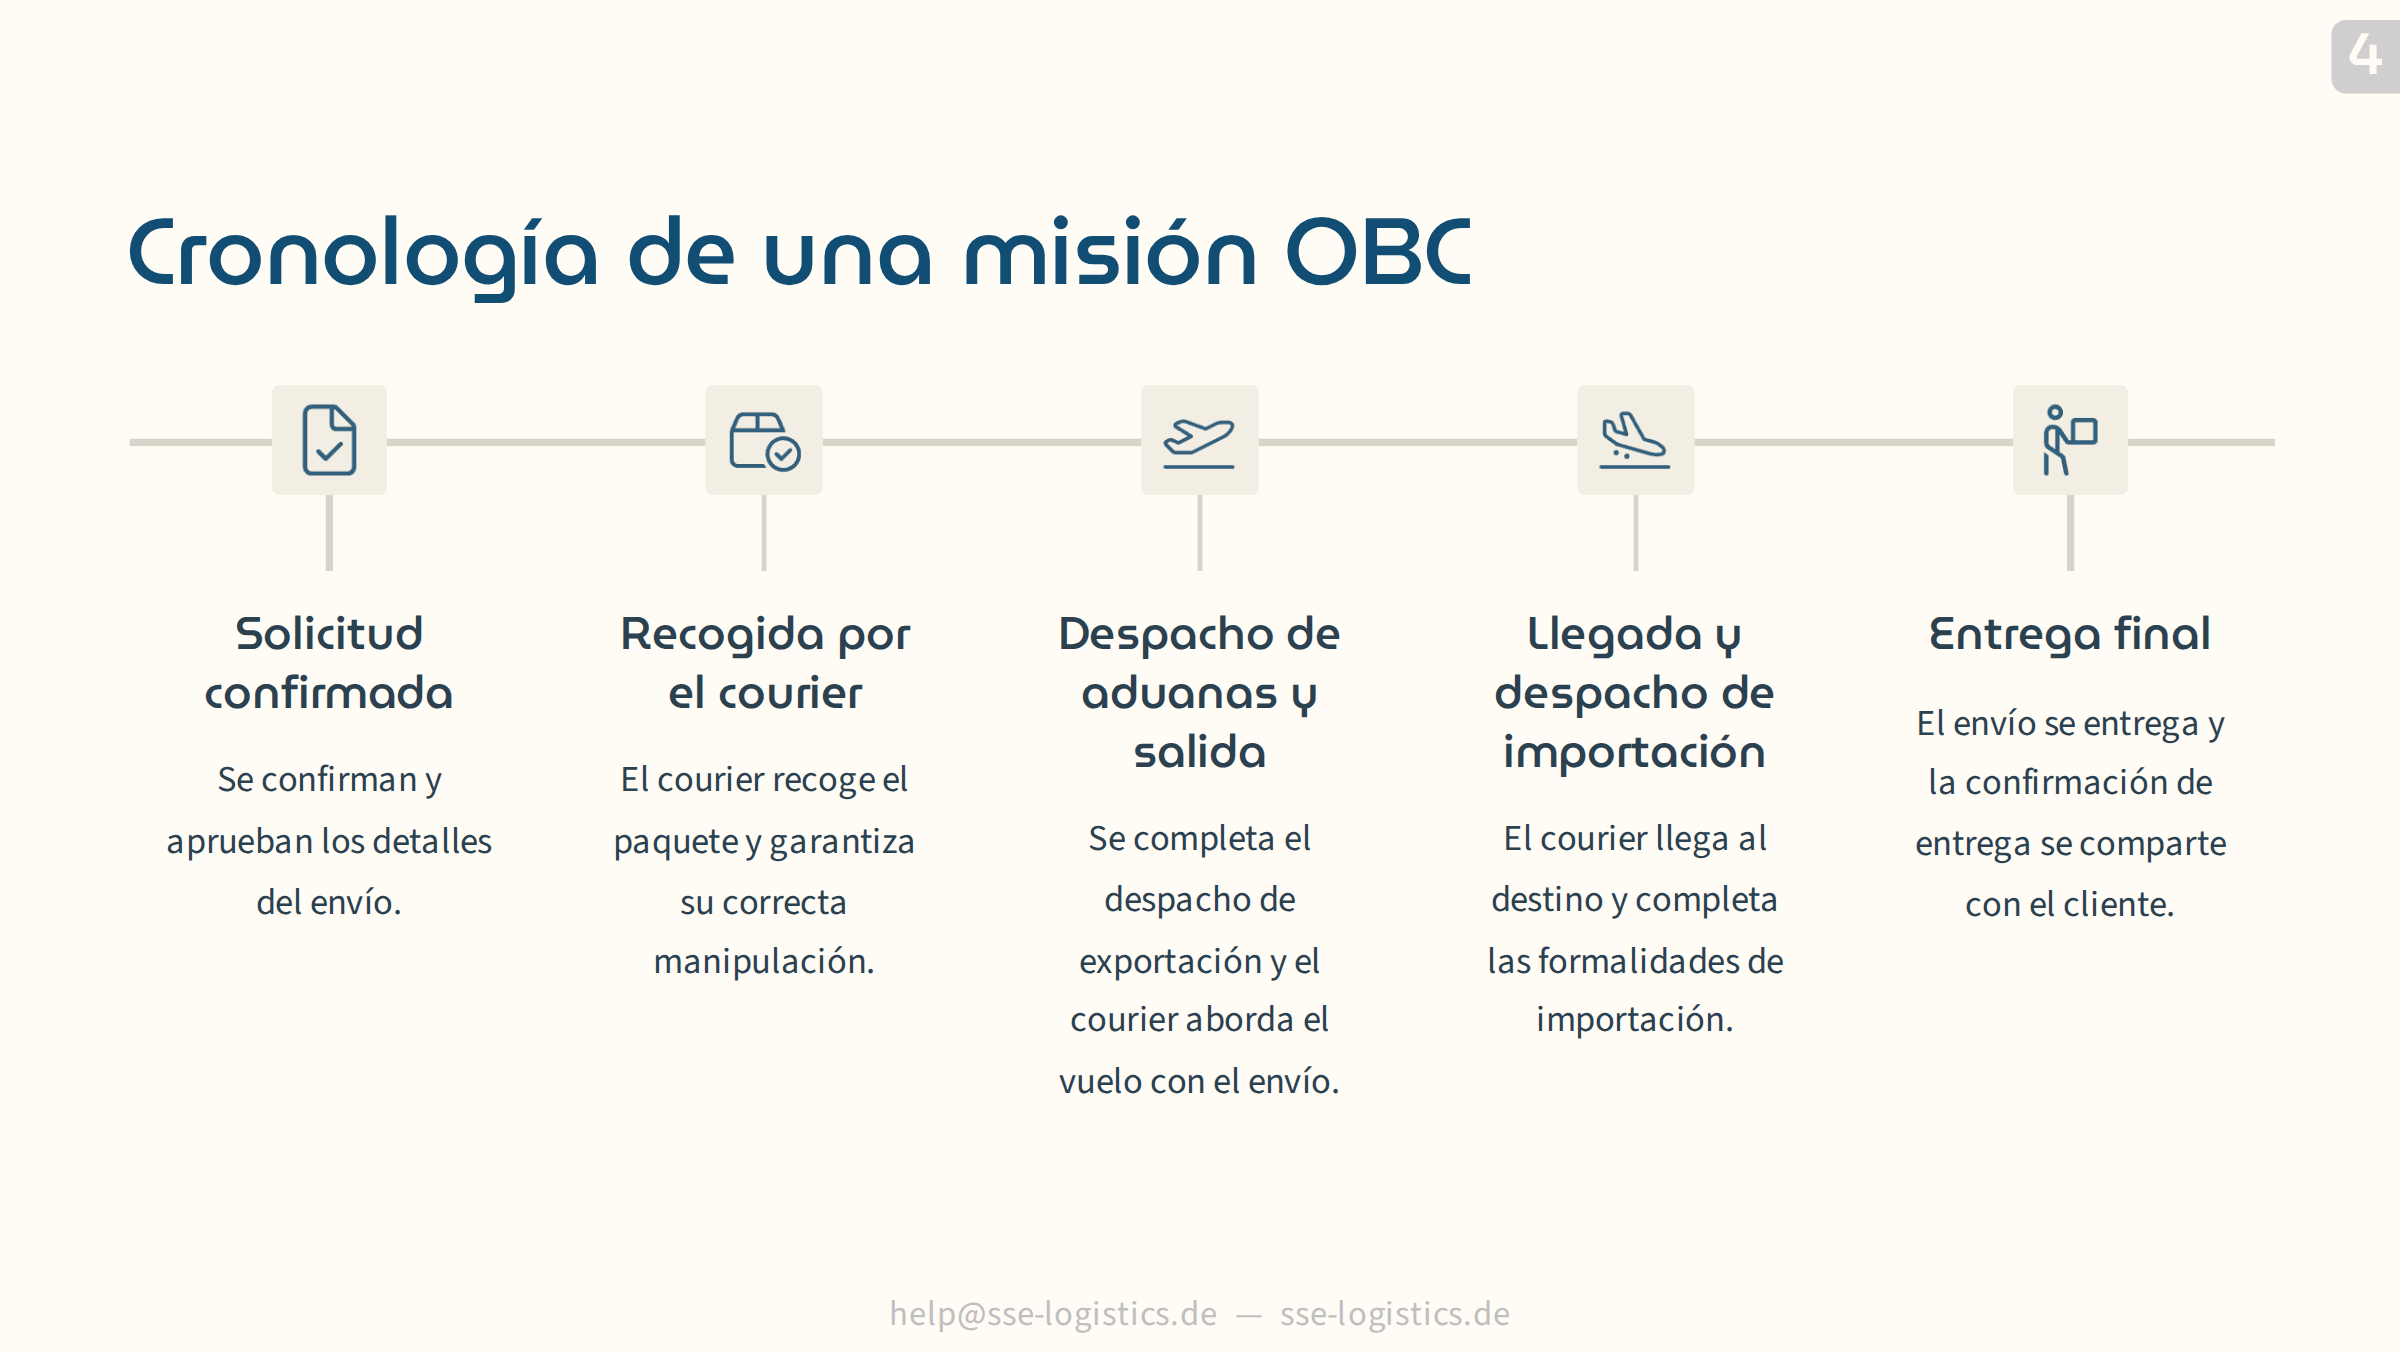
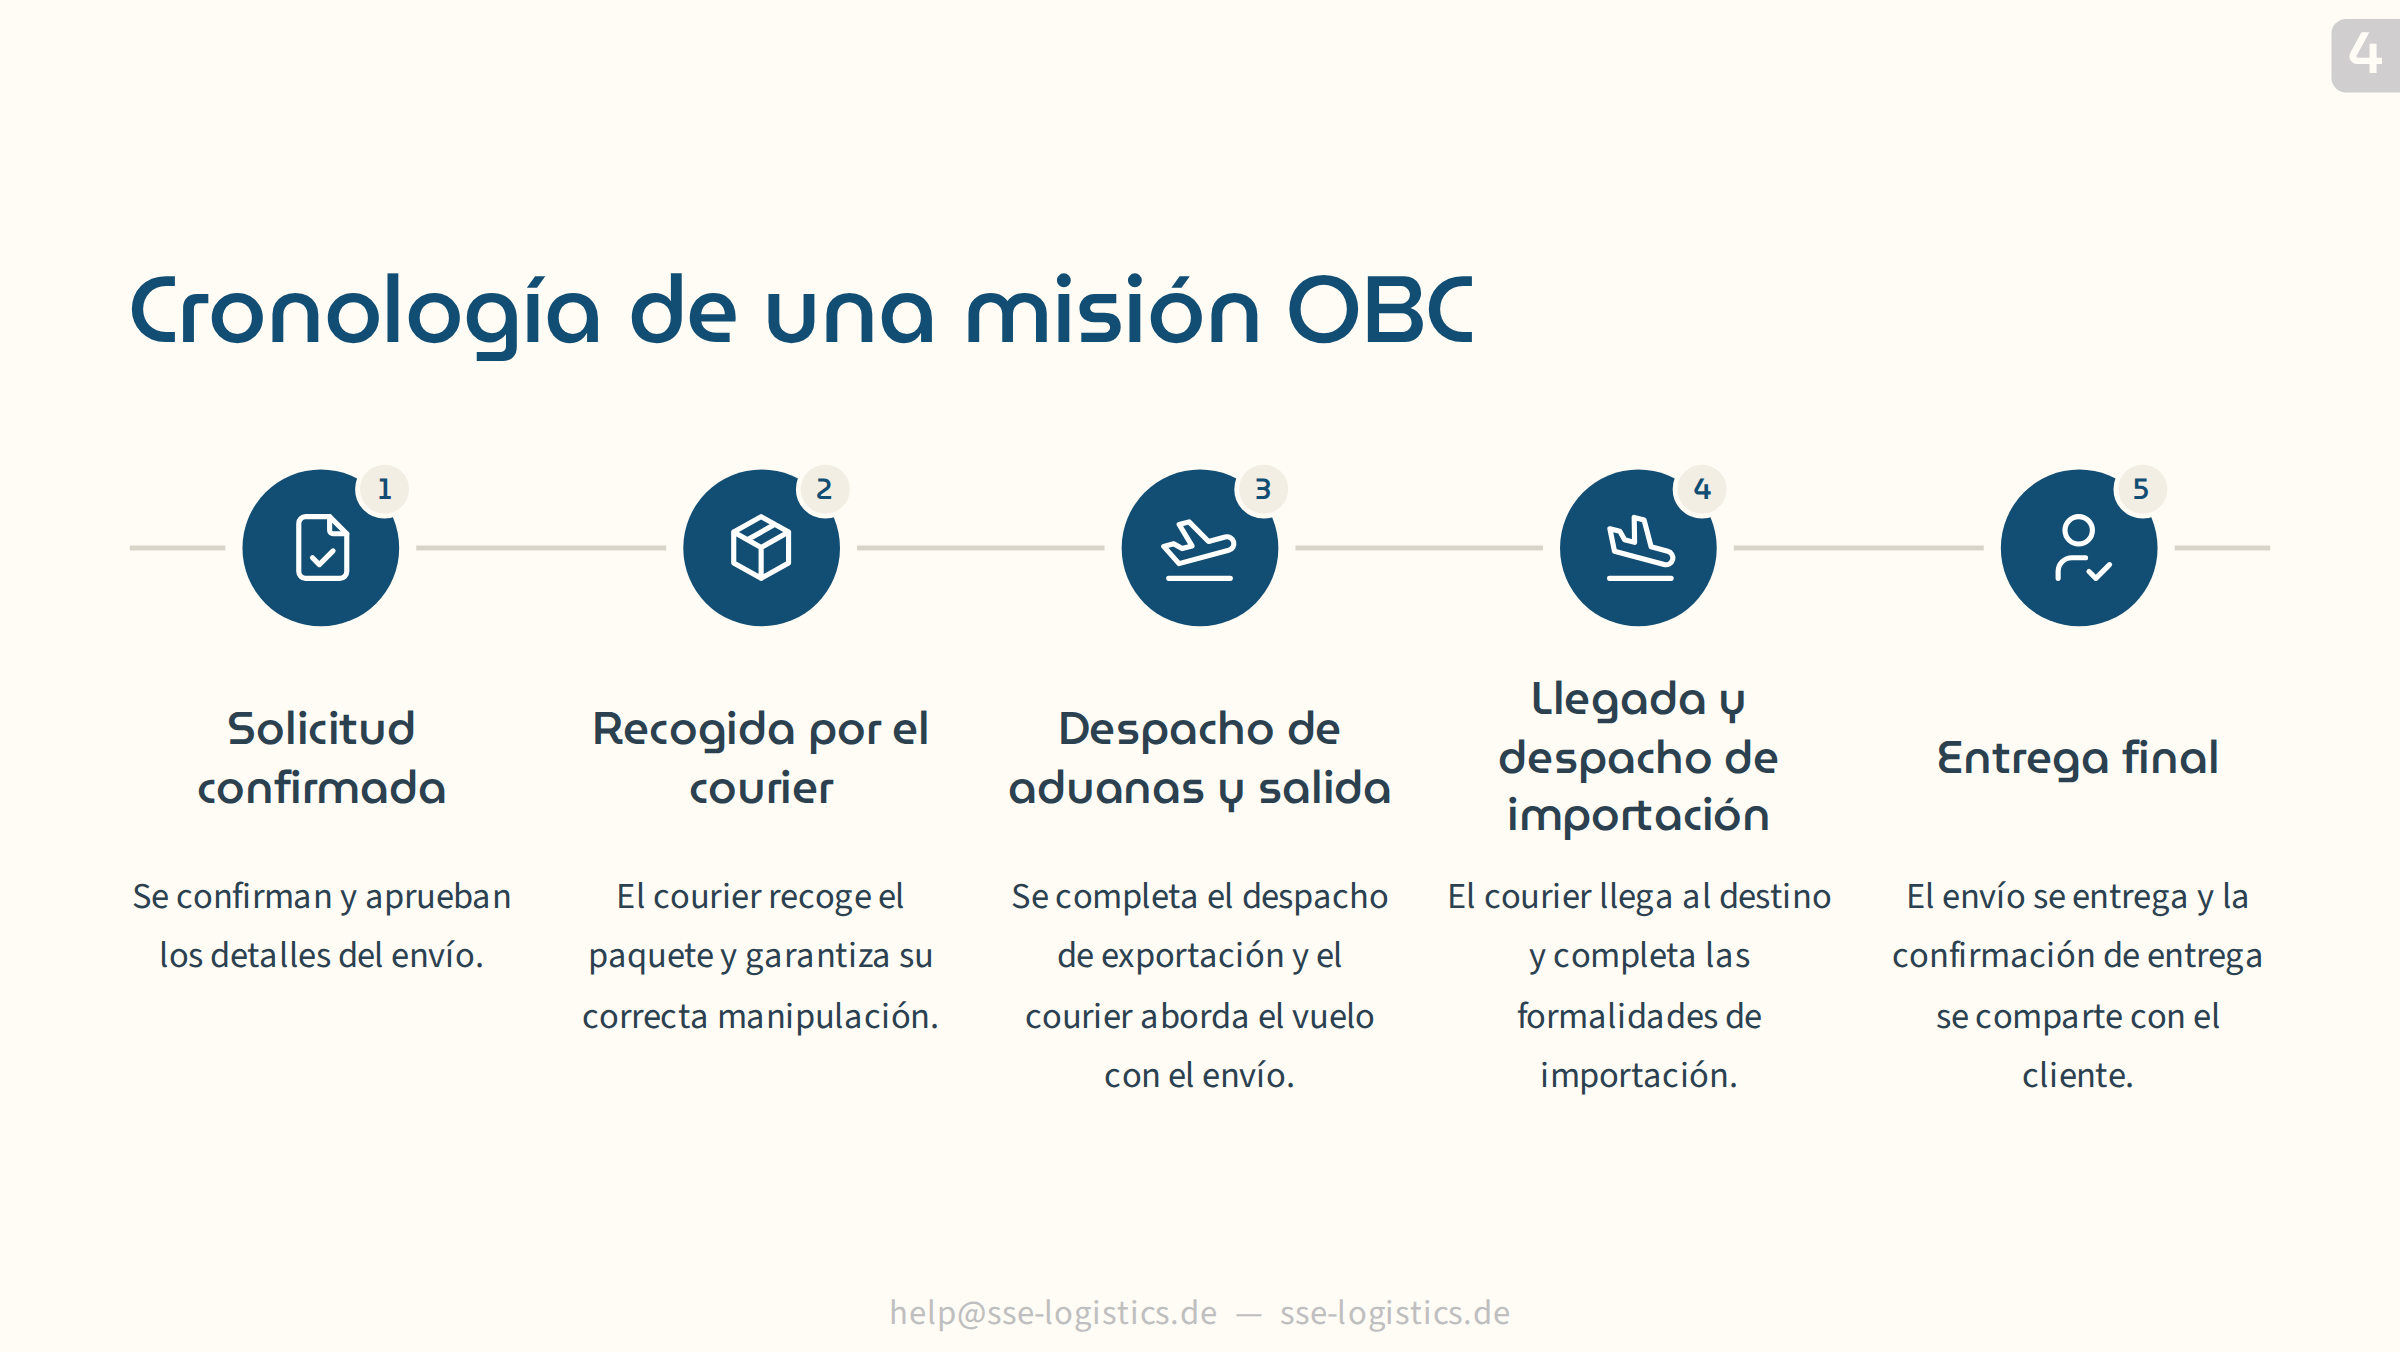
fix others

diff --git a/2025-02-alla-presentation/components/Timeline.vue b/2025-02-alla-presentation/components/Timeline.vue
@@ -1,6 +1,6 @@
 <script setup lang="ts">
-// Horizontal process timeline: a grey line through square icon tiles, with a short drop line to each step's text.
-// Geometry follows the pptx. `i` staggers the entrance.
+// Horizontal process timeline: a line through round brand nodes (icon in the slot, step number in a badge),
+// title and text centred under each node.
 defineProps<{ steps: { title: string; text: string }[] }>()
 </script>
 
@@ -8,28 +8,30 @@ defineProps<{ steps: { title: string; text: string }[] }>()
   <div class="tl">
     <div class="track" />
     <div v-for="(s, i) in steps" :key="i" class="step">
-      <div class="node a-pop" :style="{ '--d': `${250 + i * 140}ms` }"><slot :name="`icon-${i}`" /></div>
-      <div class="drop" />
-      <!-- words never break inside (e.g. at the hyphen of "Pick-Up") -->
-      <h3 class="a-rise" :style="{ '--d': `${330 + i * 140}ms` }"><template v-for="(w, j) in s.title.split(' ')" :key="j">{{ j ? ' ' : '' }}<span class="w">{{ w }}</span></template></h3>
-      <p class="a-rise" :style="{ '--d': `${400 + i * 140}ms` }">{{ s.text }}</p>
+      <div class="node"><slot :name="`icon-${i}`" /><span class="num">{{ i + 1 }}</span></div>
+      <h3>{{ s.title }}</h3>
+      <p>{{ s.text }}</p>
     </div>
   </div>
 </template>
 
 <style scoped>
-.tl { position: relative; display: grid; grid-auto-flow: column; grid-auto-columns: 177.75px; }
-.track { position: absolute; left: 7.6px; right: 7.6px; top: 22.9px; height: 2.1px; background: var(--c-line); }
+.tl { position: relative; display: grid; grid-auto-flow: column; grid-auto-columns: 1fr; gap: 22px; }
+.track { position: absolute; left: 0; right: 0; top: 31px; height: 2px; background: var(--c-line); }
 .step { position: relative; text-align: center; display: flex; flex-direction: column; align-items: center; }
 .node {
-  position: relative; z-index: 1; width: 47.9px; height: 45.9px; border-radius: 3px;
-  background: var(--c-card); color: #325f7b; font-size: 29px; display: grid; place-items: center;
+  position: relative; z-index: 1; width: 64px; height: 64px; border-radius: 50%;
+  background: var(--c-brand); color: #fff; font-size: 28px; display: grid; place-items: center;
+  box-shadow: 0 0 0 7px var(--c-bg);
 }
-.node :deep([stroke-width="2"]), .node :deep([stroke-width="1.5"]) { stroke-width: 1.33; }
-.drop { width: 2.1px; height: 30.2px; background: var(--c-line); }
-h3 { font-size: 18.7px; line-height: 23.8px; max-width: 122px; margin: 14.5px 0 12.7px; }
-.w { white-space: nowrap; }
-p { font-size: 14.9px; line-height: 24.7px; max-width: 133px; }
-.step:last-child p { max-width: 115px; } /* the last text box is narrower in the pptx */
-:lang(es) .step:last-child p { max-width: 133px; } /* but not in the Spanish one */
+.node :deep([stroke-width]) { stroke-width: 1.5; }
+/* number badge in the card colour, so the slide has no extra accent colour */
+.num {
+  position: absolute; top: -4px; right: -6px; width: 24px; height: 24px; border-radius: 50%; box-sizing: border-box;
+  background: var(--c-card); color: var(--c-brand); border: 2px solid var(--c-bg);
+  font: 500 12px/20px var(--f-display); text-align: center;
+}
+/* titles take three lines' height (the longest wrap to three), so the texts below start on one line */
+h3 { font-size: 18.7px; line-height: 23.8px; min-height: 71.4px; margin: 18px 0 10px; display: flex; align-items: center; justify-content: center; }
+p { font-size: 14.9px; line-height: 24.2px; }
 </style>

diff --git a/2025-02-alla-presentation/slides.md b/2025-02-alla-presentation/slides.md
@@ -114,21 +114,19 @@ layout: page
 # {{ t.timeline.title }}
 
 <Timeline class="tl-main" :steps="t.timeline.steps">
-  <template #icon-0><img src="/img/icons/request-confirmed.png" alt="" /></template>
-  <template #icon-1><img src="/img/icons/courier-pick-up.png" alt="" /></template>
-  <template #icon-2><img src="/img/icons/departure.png" alt="" /></template>
-  <template #icon-3><img src="/img/icons/arrival.png" alt="" /></template>
-  <template #icon-4><img src="/img/icons/final-delivery.png" alt="" /></template>
+  <template #icon-0><tabler-file-check /></template>
+  <template #icon-1><tabler-package /></template>
+  <template #icon-2><tabler-plane-departure /></template>
+  <template #icon-3><tabler-plane-arrival /></template>
+  <template #icon-4><tabler-user-check /></template>
 </Timeline>
 
 </div>
 
 <style>
-/* Positions taken from the pptx */
-.mission { margin-top: 48.2px; }
-.mission h1 { margin-left: 8.6px; }
-.tl-main { margin: 32.5px 0 0 2.4px; }
-.tl-main img { width: 29px; height: 29px; }
+/* The pre-reference layout: title, then the timeline across the full width */
+.mission { margin: 72px 9.5px 0; }
+.tl-main { margin-top: 44px; }
 </style>
 
 ---
@@ -198,17 +196,19 @@ layout: page
 .customs .box { height: 176.4px; }
 .customs .box h3 { font-weight: 700; }
 .customs .boxes { margin-bottom: 1.4em; }
-.customs .bottom { display: grid; grid-template-columns: 1fr 369px; gap: 1.6em; align-items: center; } /* Note centred on the Supported Countries block */
+.customs .bottom { display: grid; grid-template-columns: 1fr 310px; gap: 1.6em; align-items: stretch; } /* Note as tall as the Supported Countries block */
 .customs .countries { margin: .5em 0 .7em; }
 .customs .chips { display: flex; flex-wrap: wrap; gap: .45em; }
 .customs .chips span {
   display: inline-flex; align-items: center; gap: .35em; padding: .3em .85em; border-radius: 999px;
-  /* all chips alike: outlined, flags and the globe with the same padding */
-  color: var(--c-brand); border: 1.5px solid var(--c-line); font-size: .8em; font-weight: 600;
+  /* country chips filled, "And many others" outlined; same border width, so all are the same size */
+  background: var(--c-brand); color: #fff; border: 1.5px solid var(--c-brand); font-size: .8em; font-weight: 600;
 }
+.customs .chips span.more { background: transparent; color: var(--c-brand); border-color: var(--c-line); }
+.customs .chips span:not(.more) svg { box-shadow: 0 0 0 1.5px rgba(255,255,255,.8); border-radius: 50%; }
 .customs .chips svg { font-size: 1.3em; }
 .customs .note {
-  display: grid; grid-template-columns: auto 1fr; gap: .7em; align-items: start;
+  display: grid; grid-template-columns: auto 1fr; gap: .7em; align-items: start; align-content: center;
   background: var(--c-card); border-left: 4px solid var(--c-brand); border-radius: 3px; padding: 7px 1.1em;
   font-size: 14.9px; line-height: 20.5px;
 }
@@ -255,23 +255,26 @@ image: img/runway.jpg
 # {{ t.industries.title }}
 
 <div class="ind">
-  <div><img src="/img/icons/automotive.png" alt="" /><span>{{ t.industries.items[0] }}</span></div>
-  <div><img src="/img/icons/aerospace.png" alt="" /><span>{{ t.industries.items[1] }}</span></div>
-  <div><img src="/img/icons/electronics.png" alt="" /><span>{{ t.industries.items[2] }}</span></div>
-  <div><img src="/img/icons/healthcare.png" alt="" /><span>{{ t.industries.items[3] }}</span></div>
-  <div><img src="/img/icons/fashion.png" alt="" /><span>{{ t.industries.items[4] }}</span></div>
-  <div><img src="/img/icons/documents.png" alt="" /><span>{{ t.industries.items[5] }}</span></div>
+  <div><span class="gl"><tabler-car /></span><span>{{ t.industries.items[0] }}</span></div>
+  <div><span class="gl"><tabler-rocket /></span><span>{{ t.industries.items[1] }}</span></div>
+  <div><span class="gl"><tabler-cpu /></span><span>{{ t.industries.items[2] }}</span></div>
+  <div><span class="gl"><tabler-heartbeat /></span><span>{{ t.industries.items[3] }}</span></div>
+  <div><span class="gl"><tabler-hanger /></span><span>{{ t.industries.items[4] }}</span></div>
+  <div><span class="gl"><tabler-file-text /></span><span>{{ t.industries.items[5] }}</span></div>
 </div>
 
 </div>
 
 <style>
-/* Title and a 3x2 grid of icons; positions and sizes taken from the pptx */
-.industries h1 { font-size: 38.7px; margin: 116.1px 0 0 32.1px; }
-:lang(es) .industries h1 { width: 892.65px; margin-left: 22.6px; text-align: center; } /* Spanish: centred over the icon grid */
-.industries .ind { display: grid; grid-template-columns: repeat(3, 297.55px); row-gap: 31px; margin: 26.3px 0 0 22.6px; text-align: center; }
+/* Title centred over a 3x2 grid of icons in glass circles (the pre-reference look) */
+.industries h1 { font-size: 38.7px; width: 892.65px; margin: 88px 0 0 22.6px; text-align: center; }
+.industries .ind { display: grid; grid-template-columns: repeat(3, 297.55px); row-gap: 28px; margin: 28px 0 0 22.6px; text-align: center; }
 .industries .ind > div { display: flex; flex-direction: column; align-items: center; gap: 16px; }
-.industries .ind img { width: 38px; height: 38px; }
+.industries .ind .gl {
+  width: 66px; height: 66px; border-radius: 50%; display: grid; place-items: center; box-sizing: border-box;
+  background: rgba(255,255,255,.14); border: 1.5px solid rgba(255,255,255,.45); backdrop-filter: blur(4px);
+}
+.industries .ind .gl svg { font-size: 30px; color: #fff; } /* thin strokes: the global stroke-width override */
 .industries .ind span { font: 500 18.7px/1.2 var(--f-display); }
 </style>
 
@@ -347,6 +350,8 @@ import { brand, mapsUrl } from './brand'
 <!-- right column: contact lines and the QR; the photo half (::photo:: below) carries the title -->
 <div class="contacts">
 
+<h1>{{ t.contacts.title }}</h1>
+
 <ul class="lines selectable">
   <li><tabler-phone /><a :href="`tel:${brand.phone.replace(/\s/g, '')}`">{{ brand.phone }}</a></li>
   <li><tabler-mail /><a :href="`mailto:${brand.email}`">{{ brand.email }}</a></li>
@@ -369,12 +374,13 @@ import { brand, mapsUrl } from './brand'
 <style>
 /* Photo side (usual tint of the split layout): small logo top-left, big two-line title and lead */
 .connect { position: absolute; inset: 0; padding: 48px 56px; display: flex; flex-direction: column; }
-.connect .logo { width: 112px; height: auto; }
-.connect h1 { font-size: 66px; line-height: 1.02; max-width: 300px; margin-top: 96px; } /* wraps to two lines */
+.connect .logo { width: 112px; height: auto; opacity: .38; order: 1; margin-top: auto; } /* 62% transparent, at the bottom */
+.connect h1 { font-size: 66px; line-height: 1.02; max-width: 300px; margin-top: 116.5px; } /* wraps to two lines; same place as when the logo was above it */
 .connect .lead { font-size: 18.7px; line-height: 1.25; max-width: 280px; margin-top: 22px; }
-/* Contacts side: plain icons close to their text, dividers under the text only, the QR as the hero below.
+/* Contacts side: title, plain icons close to their text, dividers under the text only, the QR as the hero below.
    The block is centred in the column height by the layout. */
 .contacts { margin: 0 -10px 0 11px; --text-x: 44px; }
+.contacts h1 { font-size: 38.7px; margin-bottom: 18px; } /* same size as the titles of the content slides */
 .contacts .lines { list-style: none; margin: 0; padding: 0; }
 .contacts .lines li { position: relative; display: grid; grid-template-columns: 26px 1fr; column-gap: 18px; align-items: center; min-height: 52px; box-sizing: border-box; }
 .contacts .lines li + li::before { content: ''; position: absolute; top: 0; left: var(--text-x); right: 0; height: 1px; background: var(--c-line); }
@@ -384,5 +390,5 @@ import { brand, mapsUrl } from './brand'
 .contacts .lines a { color: var(--c-brand); text-decoration: none; font-size: 18.7px; line-height: 1.3; }
 .contacts .lines a:hover { text-decoration: underline; text-underline-offset: 3px; }
 /* QR left edge on the text line of the contacts */
-.contacts .qr { display: block; width: 230px; height: 230px; margin: 26px 0 0 calc(var(--text-x) - 13.6px); } /* the png has a 13.6px quiet zone */
+.contacts .qr { display: block; width: 200px; height: 200px; margin: 20px 0 0 calc(var(--text-x) - 13.6px); } /* the png has a 13.6px quiet zone */
 </style>
